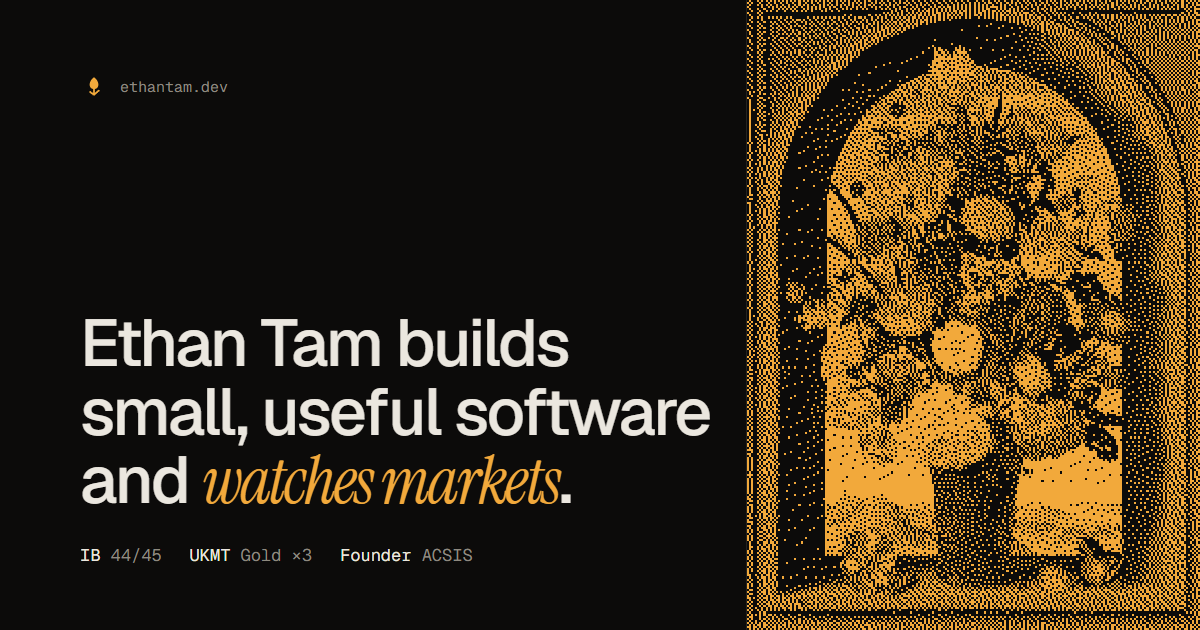
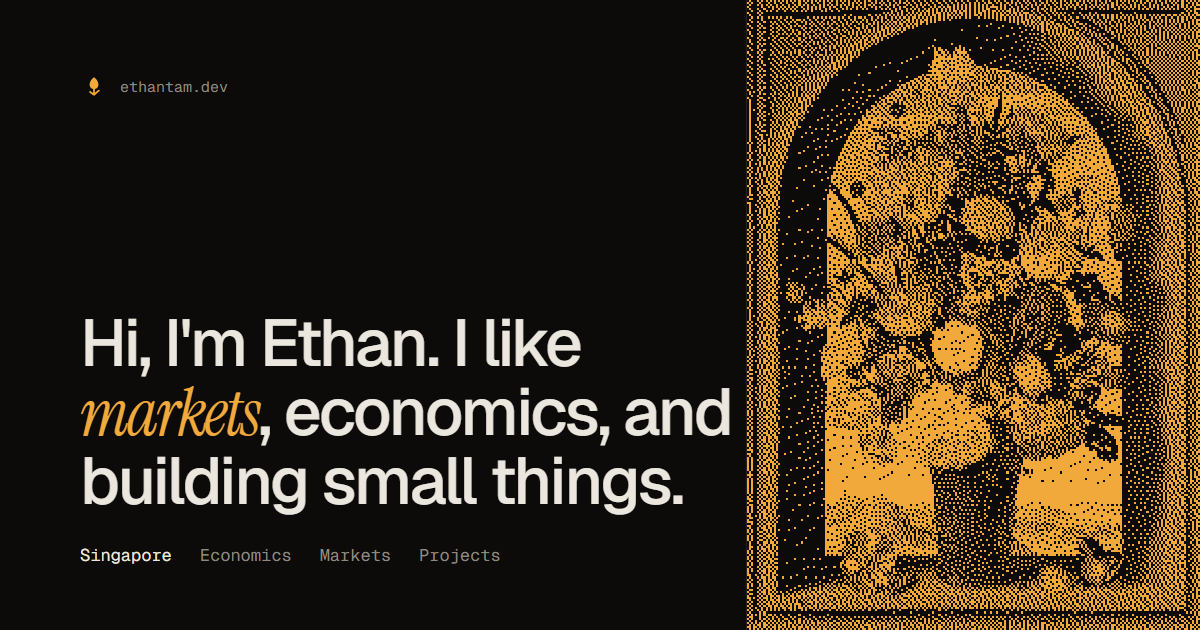
Calmer copy: about section, updated background, no grade/award stats
- headline and intro rewritten in first person
- new About section (gold ETF story, investment club, EE, why I build apps)
- hero stats now say what I'm doing (NS, Advisory SG, Cambridge, markets)
- Background updated from the 2026 CV; dropped grades and medals
- share card regenerated; phone nav trimmed so it fits at 360px

Changed region(s): [[0.0617, 0.4825, 0.6167, 0.6937], [0.0617, 0.7238, 0.5858, 0.8143], [0.0617, 0.8746, 0.4317, 0.9048]]

diff --git a/index.html b/index.html
@@ -4,10 +4,10 @@
   <meta charset="utf-8">
   <meta name="viewport" content="width=device-width, initial-scale=1">
   <title>Ethan Tam</title>
-  <meta name="description" content="Ethan Tam — student in Singapore who builds practical web apps and bots, with a soft spot for markets.">
+  <meta name="description" content="Ethan Tam: Singapore, into markets and economics, builds small apps on the side.">
   <meta name="theme-color" content="#0c0b0a">
   <meta property="og:title" content="Ethan Tam">
-  <meta property="og:description" content="Builds practical web apps and bots. Watches markets. Singapore.">
+  <meta property="og:description" content="Into markets and economics. Builds small apps on the side. Singapore.">
   <meta property="og:url" content="https://ethantam.dev">
   <meta property="og:type" content="website">
   <meta property="og:image" content="https://ethantam.dev/assets/og.png">
@@ -46,8 +46,9 @@
       <span>ethantam<span class="dim">.dev</span></span>
     </a>
     <nav class="nav mono">
-      <a href="#work">Work</a>
-      <a href="#record">Record</a>
+      <a href="#about">About</a>
+      <a href="#work">Projects</a>
+      <a href="#record">Background</a>
       <a href="#contact">Contact</a>
       <button type="button" class="nav__term" data-open-term aria-label="Open terminal">~</button>
     </nav>
@@ -57,14 +58,14 @@
     <section class="hero wrap">
       <div class="hero__text">
         <p class="label mono"><span class="dot" aria-hidden="true"></span>Singapore · SGT <span id="clock">--:--</span></p>
-        <h1>Ethan Tam builds small, useful software and <em>watches markets</em>.</h1>
-        <p class="lede">I make web apps and bots that solve problems in my own life, then polish them until other people can use them too. Before that: economics, finance, and a lot of maths competitions.</p>
+        <h1>Hi, I'm Ethan. I like <em>markets</em>, economics, and building small things.</h1>
+        <p class="lede">I'm doing National Service in Singapore right now, and I'll be studying Economics at Cambridge from 2027. In between, I read about markets and make apps for myself and my friends.</p>
 
         <dl class="stats mono">
-          <div><dt>IB Diploma</dt><dd>44<span class="dim">/45</span></dd></div>
-          <div><dt>UKMT</dt><dd>Gold ×3</dd></div>
-          <div><dt>ACSians Inv. Soc.</dt><dd>Founder</dd></div>
-          <div><dt>Harvard CS50</dt><dd>Done</dd></div>
+          <div><dt>Now</dt><dd>National Service</dd></div>
+          <div><dt>On the side</dt><dd>Advisory SG</dd></div>
+          <div><dt>Next</dt><dd>Cambridge</dd></div>
+          <div><dt>Into</dt><dd>Markets</dd></div>
         </dl>
       </div>
 
@@ -80,9 +81,20 @@
       </figure>
     </section>
 
+    <section class="block wrap" id="about" aria-labelledby="about-h">
+      <div class="block__head">
+        <h2 id="about-h" class="mono">01 / About</h2>
+      </div>
+      <div class="about">
+        <p>The first stock I ever bought was a gold ETF, at 14, in the middle of COVID. I mostly wanted to understand why everyone was suddenly piling into gold. That question turned into a habit of reading about how fear, incentives and institutions move markets, which is roughly how I ended up choosing Economics.</p>
+        <p>At school I co-founded the ACSians Investment Club with some friends: workshops for beginners, stock pitches, and talks from people working in the industry. For my Extended Essay I tried predicting bitcoin prices with machine learning, which taught me a lot about messy data and about how humbling prediction is.</p>
+        <p>I started building apps because I wanted tools that didn't exist yet, like a money tracker that understands PayLater and splitting bills with friends. A couple of them are below.</p>
+      </div>
+    </section>
+
     <section class="block wrap" id="work" aria-labelledby="work-h">
       <div class="block__head">
-        <h2 id="work-h" class="mono">01 / Work</h2>
+        <h2 id="work-h" class="mono">02 / Projects</h2>
         <a class="mono link" href="https://github.com/Ethosan">github.com/Ethosan ↗</a>
       </div>
 
@@ -119,25 +131,25 @@
 
     <section class="block wrap" id="record" aria-labelledby="record-h">
       <div class="block__head">
-        <h2 id="record-h" class="mono">02 / Record</h2>
+        <h2 id="record-h" class="mono">03 / Background</h2>
       </div>
 
       <ol class="log">
-        <li><span class="log__t mono">2023–24</span><span class="log__w">Founder &amp; President</span><span class="log__o dim">ACSians Investment Society</span></li>
-        <li><span class="log__t mono">2023–24</span><span class="log__w">Intern</span><span class="log__o dim">Cyanstone Ltd</span></li>
-        <li><span class="log__t mono">2023–24</span><span class="log__w">Student Councillor</span><span class="log__o dim">Anglo-Chinese School (Independent)</span></li>
-        <li><span class="log__t mono">2024</span><span class="log__w">IB Diploma, 44/45</span><span class="log__o dim">Anglo-Chinese School (Independent)</span></li>
-        <li><span class="log__t mono">2021–22</span><span class="log__w">Gold ×3, UK Mathematical Challenge</span><span class="log__o dim">Senior &amp; Intermediate</span></li>
-        <li><span class="log__t mono">2021</span><span class="log__w">Intern</span><span class="log__o dim">Axis Law Corporation</span></li>
-        <li><span class="log__t mono">2019–22</span><span class="log__w">Sergeant</span><span class="log__o dim">National Cadet Corps (Land)</span></li>
+        <li><span class="log__t mono">2027</span><span class="log__w">Economics (BA)</span><span class="log__o dim">University of Cambridge</span></li>
+        <li><span class="log__t mono">2026–</span><span class="log__w">Finance Officer</span><span class="log__o dim">Advisory Singapore</span></li>
+        <li><span class="log__t mono">2025–27</span><span class="log__w">National Service</span><span class="log__o dim">Singapore Armed Forces</span></li>
+        <li><span class="log__t mono">2024–25</span><span class="log__w">Maths tutor</span><span class="log__o dim">IB, IP &amp; IGCSE</span></li>
+        <li><span class="log__t mono">2023–24</span><span class="log__w">Co-founder</span><span class="log__o dim">ACSians Investment Club</span></li>
+        <li><span class="log__t mono">2023–24</span><span class="log__w">Co-founder</span><span class="log__o dim">Project Lumos, fundraising for migrant workers</span></li>
+        <li><span class="log__t mono">2019–24</span><span class="log__w">IP &amp; IB Diploma</span><span class="log__o dim">Anglo-Chinese School (Independent)</span></li>
       </ol>
     </section>
 
     <section class="block wrap" id="contact" aria-labelledby="contact-h">
       <div class="block__head">
-        <h2 id="contact-h" class="mono">03 / Contact</h2>
+        <h2 id="contact-h" class="mono">04 / Contact</h2>
       </div>
-      <p class="contact">Building something, hiring, or want to argue about a trade? <a href="mailto:eatentam@gmail.com">eatentam@gmail.com</a></p>
+      <p class="contact">Always happy to chat about markets, economics, or something you're building. <a href="mailto:eatentam@gmail.com">eatentam@gmail.com</a></p>
       <ul class="links mono">
         <li><a href="https://github.com/Ethosan">GitHub ↗</a></li>
         <li><a href="https://linkedin.com/in/ethantam-">LinkedIn ↗</a></li>

diff --git a/main.js b/main.js
@@ -161,7 +161,7 @@
       "help        this list",
       "about       who I am",
       "projects    what I've built",
-      "record      the short CV",
+      "record      background, briefly",
       "watchlist   what I'm watching, live",
       "contact     how to reach me",
       "open &lt;x&gt;    open github | linkedin | 20bucks | list",
@@ -169,17 +169,17 @@
       "clear       clear the screen",
       "exit        close (or press esc)",
     ].join("\n"),
-    about: () => "Ethan Tam. Singapore.\nI build web apps and bots that fix problems in my own life, then polish them\nuntil other people can use them. Economics and finance by training, code by habit.",
+    about: () => "Ethan Tam, Singapore.\nDoing National Service now, Economics at Cambridge from 2027.\nI like markets, economics, and building small apps for myself and my friends.",
     projects: () => [
       `20bucks     personal finance PWA: splits, PayLater, P&L, AI review   ${a(LINKS["20bucks"], "app")} ${a("https://github.com/Ethosan/moneytracker", "src")}`,
       `The List    restaurant ratings + auto-researched want list + bot     ${a(LINKS.list, "app")} ${a("https://github.com/Ethosan/Makan-bot", "src")}`,
     ].join("\n"),
     record: () => [
-      "2023–24  Founder & President, ACSians Investment Society",
-      "2023–24  Intern, Cyanstone Ltd",
-      "2024     IB Diploma 44/45, ACS (Independent)",
-      "2021–22  UKMT Gold ×3",
-      "2021     Intern, Axis Law Corporation",
+      "2027     Economics (BA), University of Cambridge",
+      "2026–    Finance Officer, Advisory Singapore",
+      "2025–27  National Service",
+      "2023–24  Co-founder, ACSians Investment Club",
+      "2023–24  Co-founder, Project Lumos",
     ].join("\n"),
     contact: () => `email     ${a("mailto:eatentam@gmail.com", "eatentam@gmail.com")}\ngithub    ${a(LINKS.github, "Ethosan")}\nlinkedin  ${a(LINKS.linkedin, "ethantam-")}`,
     open: (arg) => {

diff --git a/styles.css b/styles.css
@@ -160,6 +160,9 @@ h1 em { font-family: var(--serif); font-weight: 400; font-style: italic; letter-
 .art figcaption i { font-style: italic; }
 
 /* ---------- sections ---------- */
+.about { display: grid; gap: 1.1em; max-width: 64ch; }
+.about p { margin: 0; font-size: 1.0625rem; color: color-mix(in srgb, var(--fg) 82%, var(--muted)); }
+
 .block { padding-block: clamp(40px, 6vw, 72px); }
 .block__head {
   display: flex; justify-content: space-between; align-items: baseline;
@@ -254,6 +257,7 @@ kbd { font-family: var(--mono); padding: 2px 7px; border: 1px solid var(--line);
   .top { padding-block: 16px; }
   .nav { gap: 16px; font-size: 0.75rem; }
   .nav__term { width: 36px; height: 36px; }
+  .nav a[href="#about"] { display: none; }
   .hero { gap: 40px; padding-block: 28px 48px; }
   .label { margin-bottom: 20px; }
   h1 { font-size: clamp(2rem, 9.4vw, 2.5rem); }
@@ -281,7 +285,10 @@ kbd { font-family: var(--mono); padding: 2px 7px; border: 1px solid var(--line);
   .term__win { height: min(420px, 62dvh); }
   .term__in input { font-size: 16px; } /* stops iOS zooming on focus */
 }
-@media (max-width: 359px) {
+@media (max-width: 400px) {
+  .nav a[href="#record"] { display: none; }
+}
+@media (max-width: 319px) {
   .nav a { display: none; }
 }
 
